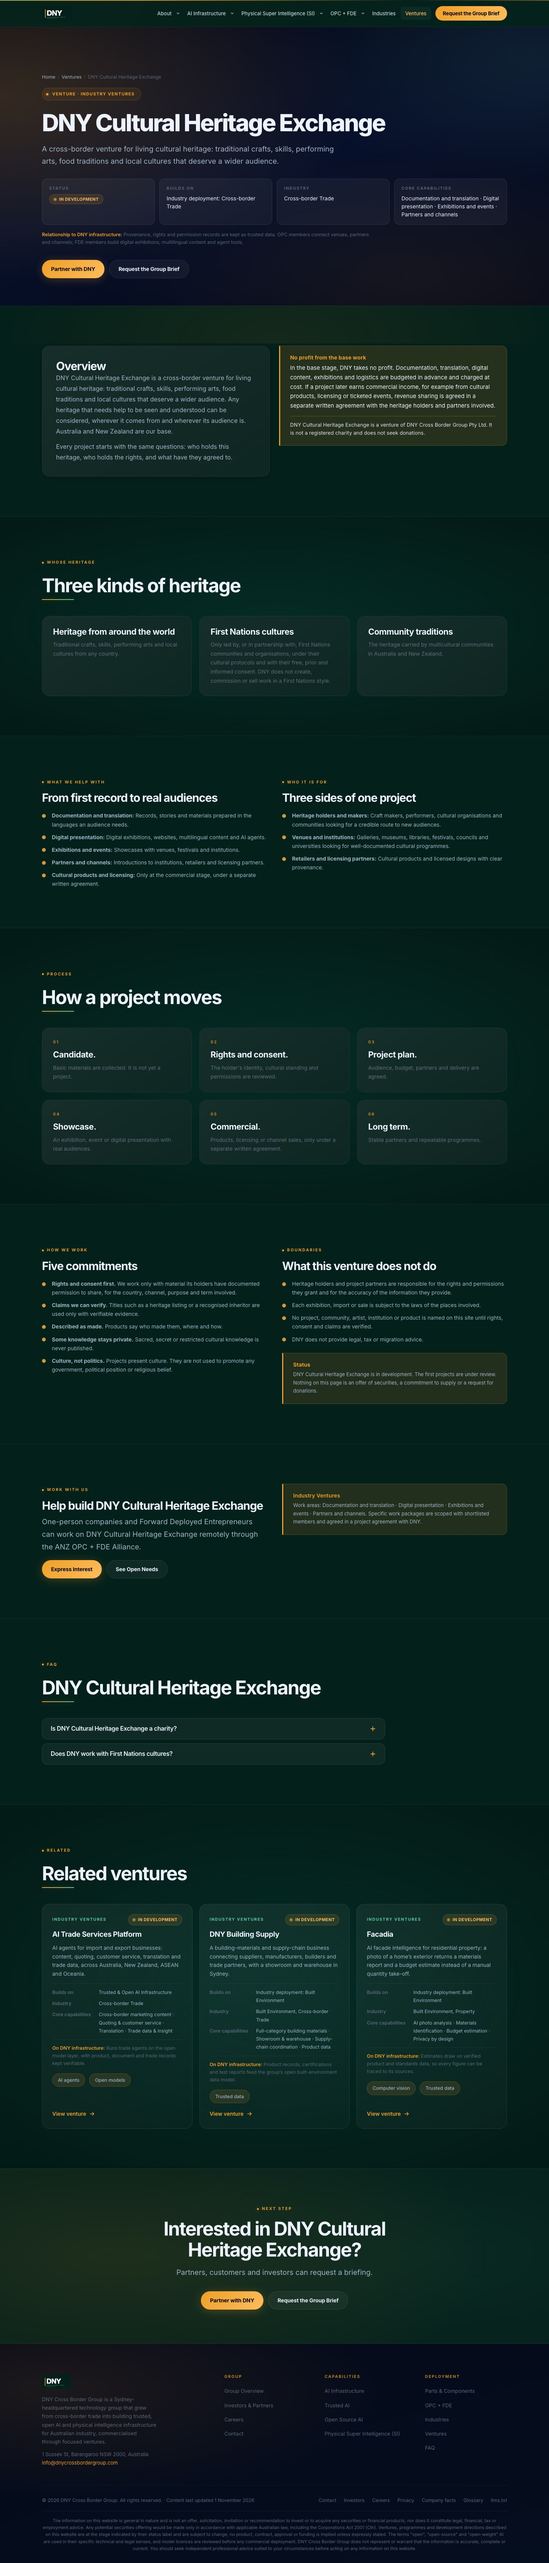
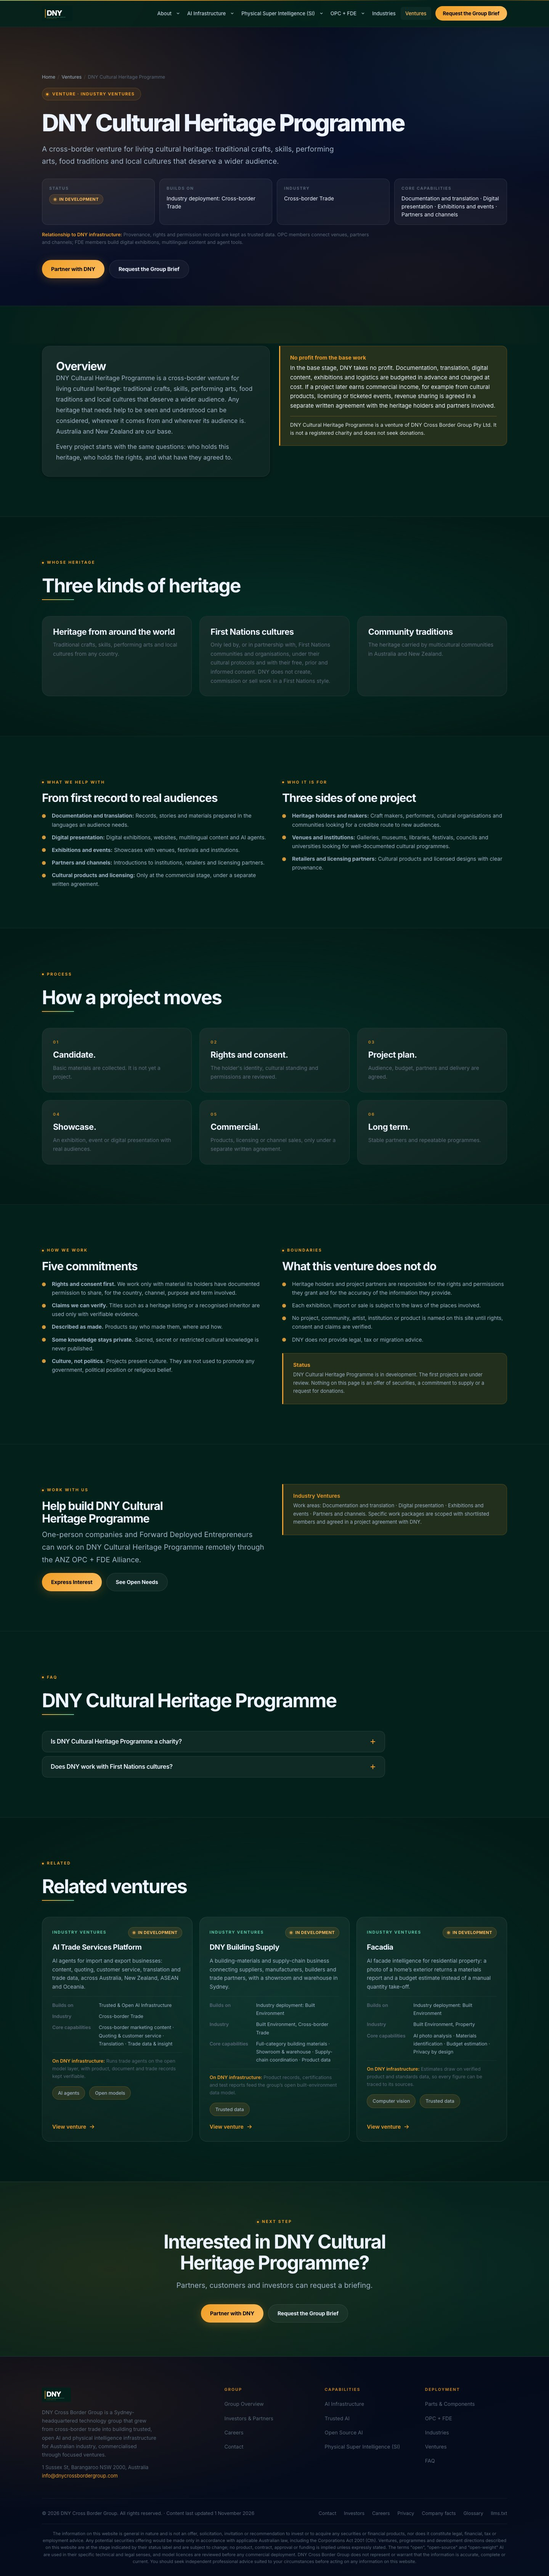
docs: rename notes and refreshed screenshots

diff --git a/docs/hermes/2026-11-01-hermes-report-cultural-heritage-exchange.md b/docs/hermes/2026-11-01-hermes-report-cultural-heritage-exchange.md
@@ -79,3 +79,16 @@ OG 图另外补了 5 张无人机页面缺失的（`physical-intelligence--drone
 - `venture-desktop.jpg` 桌面整页（含不盈利区块与身份说明那行小字）
 - `venture-mobile.jpg` 手机 390px（横向溢出 0）
 - `ventures-list-desktop.jpg` `/ventures` 列表中的新卡片
+
+## 10. 改名（Max 已定）
+
+"Exchange" 在英文里读起来像交易市场或交易所，跟这个项目"不盈利、权利在先"的定位相反。Max 选定改为 **DNY Cultural Heritage Programme**。
+
+改动范围：
+
+- `ventures.ts`：slug `cultural-heritage-exchange` → `cultural-heritage-programme`，name 同步
+- 页面正文文件改名 `src/legacy/cultural-heritage-programme.html`，正文里的机构名改用 `{{name}}` 占位，以后改名只改 `ventures.ts` 一处
+- 旧 URL 301 到新 URL：`/ventures/cultural-heritage-exchange` 与 `.html` 两条规则写进 `public/_redirects`，实测 code=301、Location 正确
+- FAQ 组 key、FAQ 标题与问题文字、`industries.ts` 的 ventures、`architecture.ts` 的列举、`/facts`、`llms.txt`、`ventures.json`、OG 图（`ventures--cultural-heritage-programme.jpg`）全部跟随
+- 页面 H1、`<title>`、Open Needs 卡片、两个表单的预选值实测均为新名
+- 截图按新页面重拍

diff --git a/docs/hermes/2026-11-01-venture-cultural-heritage-exchange.md b/docs/hermes/2026-11-01-venture-cultural-heritage-exchange.md
@@ -1,3 +1,5 @@
+> 名称变更（2026-11-01，Max 决定）：本文件写作 "Exchange"，已上线名称改为 **DNY Cultural Heritage Programme**，slug `cultural-heritage-programme`。正文文案未变，仅名称与其所在句子跟随。旧 URL 已 301。
+
 # 新增 Venture：DNY Cultural Heritage Exchange（给 Hermes）
 
 日期：2026-11-01（同日修订为 v3）· 设计：Claude · 实施：Hermes · 状态：**待 Max 确认后开工**
